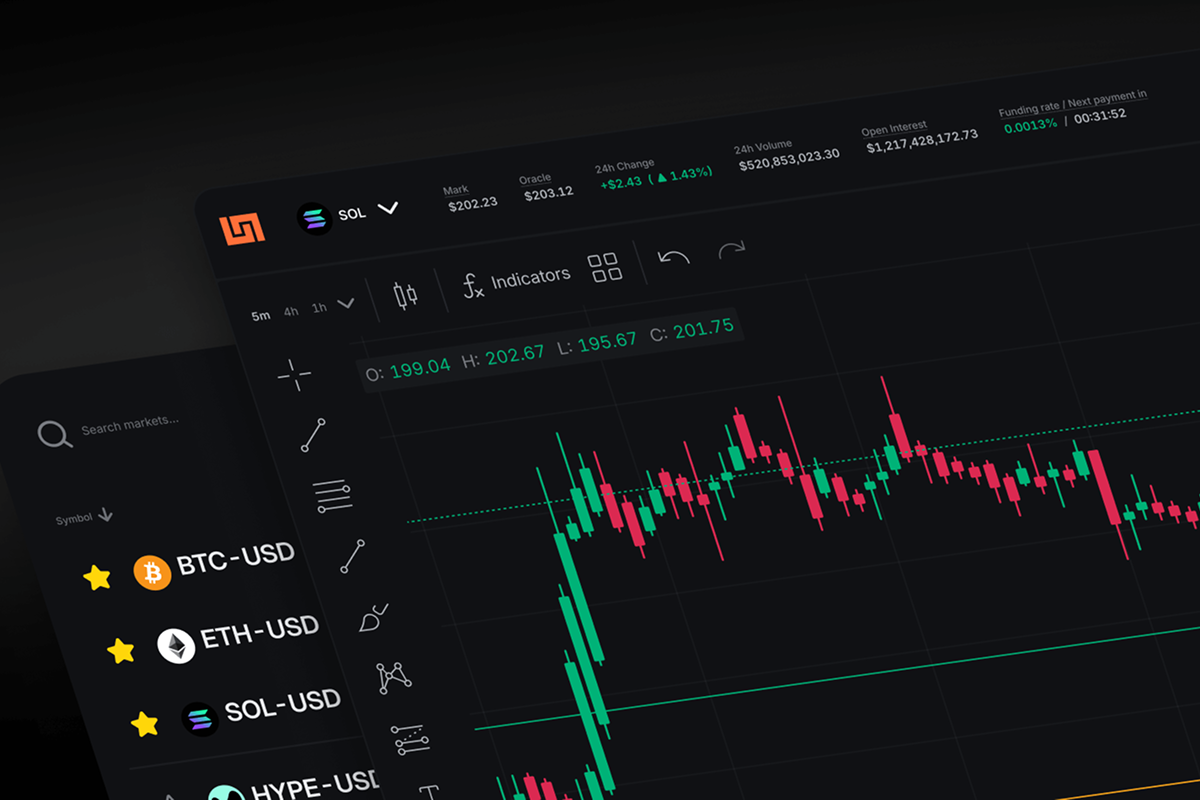
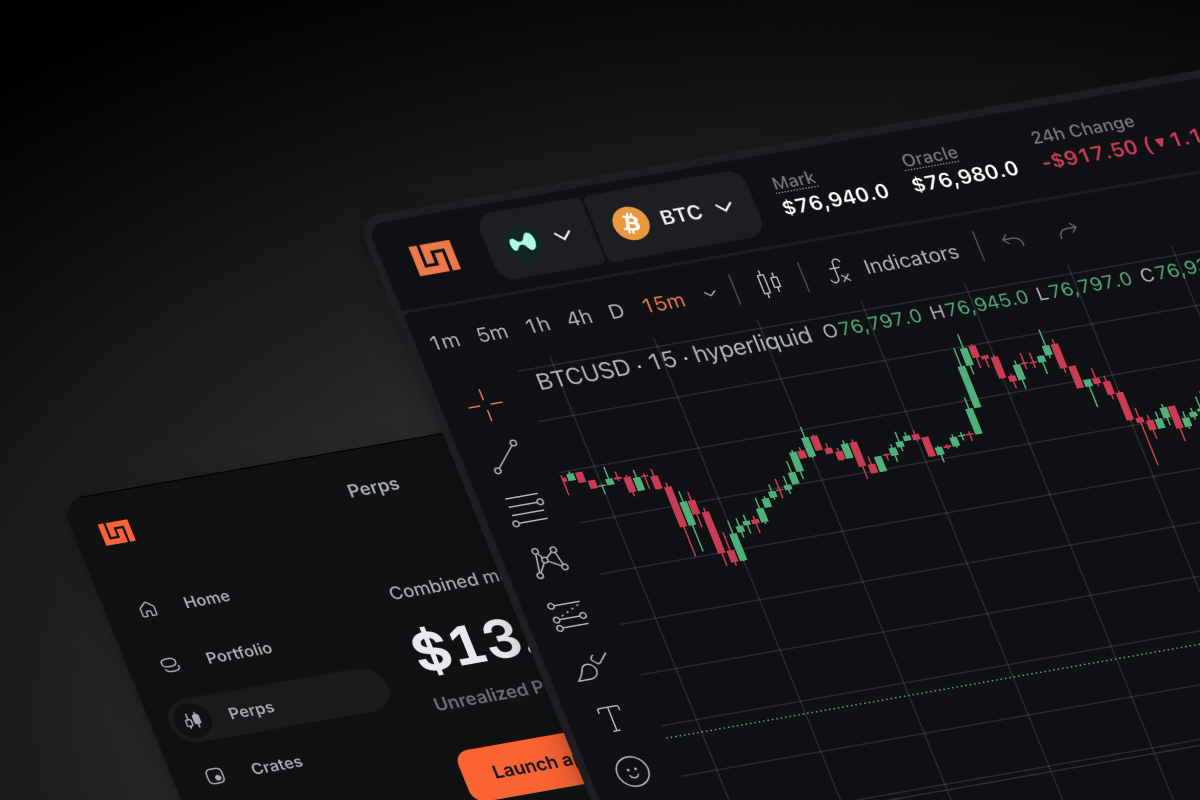
finished perps content, misc styling changes

diff --git a/sass/poole.scss b/sass/poole.scss
@@ -36,6 +36,7 @@
   --leading-normal: 1.6;
 
   /* Weight */
+  --font-normal: 400;
   --font-semibold: 600;
 }
 
@@ -70,14 +71,19 @@ h3 {
 
 p {
   font-size: var(--text-lg);
+  font-weight: var(--font-normal);
   line-height: var(--leading-normal);
   color: var(--color-text-secondary);
   margin: 0;
 }
 
+
 li {
-  font-size: var(--text-sm);
+  font-size: var(--text-lg);
+  font-weight: var(--font-normal);
   line-height: var(--leading-normal);
+  color: var(--color-text-secondary);
+  margin: 0;
 }
 
 small {
@@ -223,7 +229,7 @@ img {
   max-width: 900px;
   display: flex;
   flex-direction: column;
-  gap: 80px;
+  gap: 120px;
 }
 
 .design-header {
@@ -244,13 +250,25 @@ img {
 }
 
 .design-contact a {
+  text-decoration: none;
+  font-weight: var(--font-semibold);
+  color: var(--color-text-primary);
+}
+
+.design-outro {
+  text-align: center;
+  max-width: 560px;
+  align-self: center;
+}
+
+.design-outro a {
   text-decoration: underline;
 }
 
 .design-projects {
   display: flex;
   flex-direction: column;
-  gap: 72px;
+  gap: 120px;
 }
 
 .project-row {
@@ -284,7 +302,7 @@ img {
   color: var(--color-text-muted);
   padding-right: 20px;
   white-space: nowrap;
-  width: 80px;
+  width: 90px;
 }
 
 .project-image-card {
@@ -558,4 +576,18 @@ img {
 .project-footer-home:hover,
 .project-footer-next:hover {
   color: rgba(0, 0, 0, 1);
+}
+
+.project-footer-icons {
+  display: flex;
+  gap: 16px;
+  align-items: center;
+  justify-content: center;
+  width: 100%;
+}
+
+.project-footer-icon img {
+  width: 20px;
+  height: 20px;
+  display: block;
 }

diff --git a/templates/design.html b/templates/design.html
@@ -11,7 +11,7 @@
       <h2>{{ section.extra.name }}</h2>
       <p>{{ section.extra.role }}</p>
       <small>{{ section.extra.bio }}</small>
-      <small class="design-contact">{{ section.extra.contact_text }} <a href="mailto:{{ section.extra.contact_email }}">email</a>.</small>
+      <small class="design-contact">I'd love to hear from you, get in touch via <a href="mailto:{{ section.extra.contact_email }}">email</a>, or on <a href="https://www.linkedin.com/in/nicdocker">linkedin</a>.</small>
     </header>
 
     <div class="design-projects">
@@ -51,6 +51,18 @@
       </a>
       {% endfor %}
     </div>
+
+    <small class="design-outro">That's the end of my design case studies, but if you're interested I spend a lot of my free time working on games, both physical and digital. Take a look at some of them <a href="{{ config.base_url }}">here</a>.</p>
+
+    <nav class="project-footer-nav">
+      <hr class="project-footer-rule">
+      <div class="project-footer-links">
+        <div class="project-footer-icons">
+          <a href="https://www.linkedin.com/in/nicdocker" class="project-footer-icon"><img src="/linkedin.svg" alt="LinkedIn"></a>
+          <a href="mailto:[email redacted]" class="project-footer-icon"><img src="/mail.svg" alt="Email"></a>
+        </div>
+      </div>
+    </nav>
 
   </div>
 </div>

diff --git a/templates/index.html b/templates/index.html
@@ -13,7 +13,7 @@
       <p>{{ config.description }}</p>
       <p class="home-contact">
         Contact me <a href="https://twitter.com/D_Nocker">@D_Nocker</a>, or by
-        <a href="mailto:[email redacted]">&#9993; email</a>.
+        <a href="mailto:[email redacted]"> email</a>.
       </p>
     </header>
 

diff --git a/content/design/perps/index.md b/content/design/perps/index.md
@@ -1,36 +1,40 @@
 +++
-title = "Perps"
+title = "Perps trading"
 date = 2026-05-11
-weight = 1
-description = "Designing an interface for professional traders which aggregates decentralized exchanges and takes advantage of the UX improvements enabled by the Infinex platform."
+weight = 0
+description = "Designing a data-dense interface for professional traders to aggregate decentralized exchanges and take advantage of the UX improvements enabled by the Infinex platform."
 template = "page.html"
 [extra]
 headerimage = "/design/perps/og-image.png"
 company = "Infinex"
 year = "2025"
-scope = ["UI / UX", "Information architecture", "Dense data display"]
+scope = ["UI / UX", "Information architecture", "Data-dense design"]
 +++
 
 ## Overview
-During a period when the crypto zeitgeist was focused on on-chain gaming, we designed and built a fantasy football style crypto game to draw viral social media attention to the Infinex platform, as well as to encourage returning daily activity during an otherwise quiet period in the crypto market. 
+Perpetuals trading poses an array of complex UX problems and considerations. With extremely dense data displays, the requirement for quickly executable forms, and huge amounts of prior art and expectations from experienced users, making UX innovations in a trading interface is a tall order. Nonetheless we were confident that we would be able to bring meaningful improvement the experience of trading crypto futures on-chain.
 
-{{ video(src="bullrun-ui-recording.mp4") }}
+{{ video(src="perps-interface.mp4") }}
 
 ## Process  
 
-### The lowest fidelity prototypes
-In the initial ideating stages of Bullrun, we had an idea for how the mechanics could work, but needed to test whether they actually translated into a fun game. We testing the mechanics by building out the most basic form of the game in a spreadsheet and playing it internally within the team. This validated very early on that the core of the game was appealing, giving us confidence going into the more complete design and build process. 
+### An established UX paradigm
+When starting this project, we knew that crypto traders who use perps interfaces daily have strong preconceptions as to how they should work, especially in terms of layout and the feel of interactions. This meant that we had a strong baseline of patterns to start with, but it also means that any changes to these expectations have to be obviously valuable to be worth the cost of user learning. To ensure that we accomplished this, we sought feedback on the interface from traders frequently.
 
-### An evolution of the Infinex Brand
-The new bullrun sub-brand needed to feel both a part of the Infinex identity, but also more like a game than the functional screens and brand materials that composed the existing app. As part of this branding effort I took inspiration from sports games and trading cards, bringing together Infinex's modern, techy identity with the trading card theme of the game itself.
+### Designing for extreme UI density
+One key aspect of trading interfaces which traders have come to expect is that all the market information, position information, and trade execution forms should be visible all at once. This is essential as it lets users quickly cross-reference information from the market and their existing positions while executing a trade, but is a lot to display on a single screen. Tabbed, disclosed, or modal information was not an option save for a few niche cases. To accommodate for such dense UI we had to make significant extensions to our design system, allowing for smaller form elements, new data display patterns, and more. Providing users with maximum clarity in such a dense interface proved to be a fun and interesting design challenge. 
 
-### Designing for web constraints
-It was essential that the design, dev, and release cycle for the first version of Bullrun was fast (only a month and a half!) to capture the fleeting attention cycle that was focused on crypto gaming. To enable this we built the game on traditional web technology, leveraging infinex's existing tech stack, rather than in a game engine, which gave us less flexibility in both the functionality and visual effects. Despite this, we managed to create a game-like feel through a carefully considered information architecture, brand, and animation. 
+### The unique use-case of mobile
+When talking to experienced traders we discovered that the way they used trading interfaces on mobile differed significantly from desktop. Due to the reduced screen space available on mobile, it was challenging to conduct the deep analysis of market data required to make informed decisions about entering new positions. The always-available portability of mobile, however, made it perfect for monitoring the positions you'd already opened on desktop, adjusting or closing them as necessary. 
 
+When designing our mobile interface we focused on this use-case, optimising for monitoring and modifying already-open positions rather than spreading the limited available space over the entire trading experience.
 
-<img class="xlimagewithinpost" src="/design/bullrun/game-screens.png" alt="Game Screens">
-<img class="xlimagewithinpost" src="/design/bullrun/cards.png" alt="Card Designs">
-<img class="xlimagewithinpost" src="/design/bullrun/mobile-screens.png" alt="Mobile Screens">
+<img class="xlimagewithinpost" src="/design/perps/in-app.png" alt="User flows">
+<img class="xlimagewithinpost" src="/design/perps/perps-interface
+.png" alt="User flows">
+<img class="xlimagewithinpost" src="/design/perps/mobile.png" alt="User flows">
 
-# Outcome
-The release of bullrun was a success, bringing the Infinex app to the forefront of user's minds during a quiet period in the crypto market. At it's peak, the game reached 15,000 daily active players, representing the largest spike in the Infinex's user and activity growth that had been seen thus far in the project's lifetime. The game continued to be updated for several months after it's release with new additions to the mechanics, keeping it a fresh play experience.
+## Outcome
+On launch, the perps experience struggled to gain initial traction in crypto communities. This was likely due to a combination of factors, including a downturn in crypto market conditions and the release of Aster and Lighter, new perps engines which drew a lot of trading activity away from hyperliquid which we initially built on top of. 
+
+Despite initially slow growth, those who did try Infinex perps gave very positive feedback. Over the following few months we added support for other perps engines and continued to improve the interface itself, allowing the perps user base to grow over time and become Infinex's strongest revenue source.